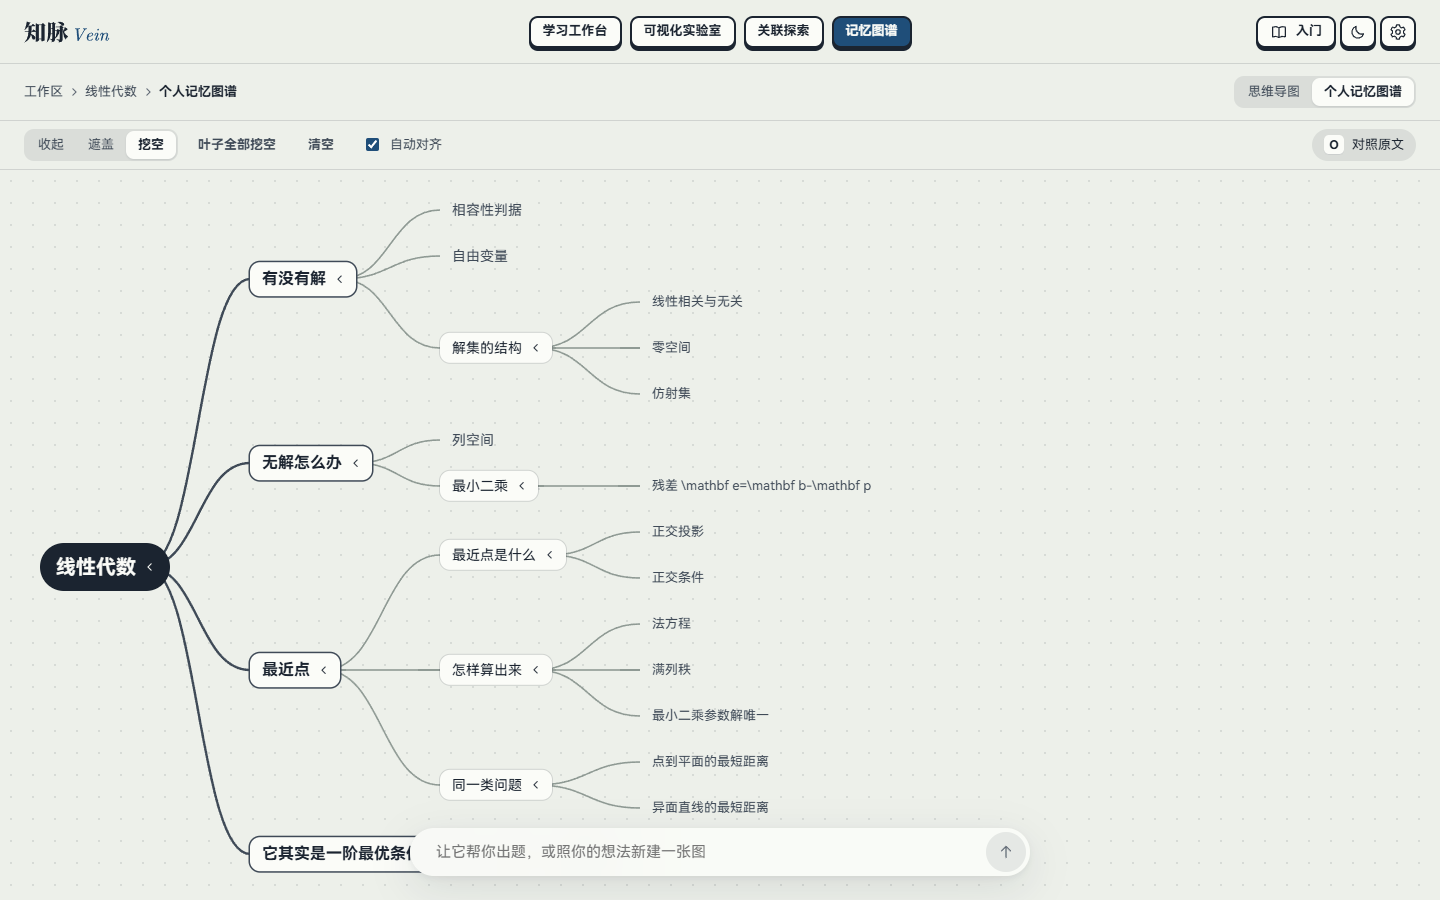
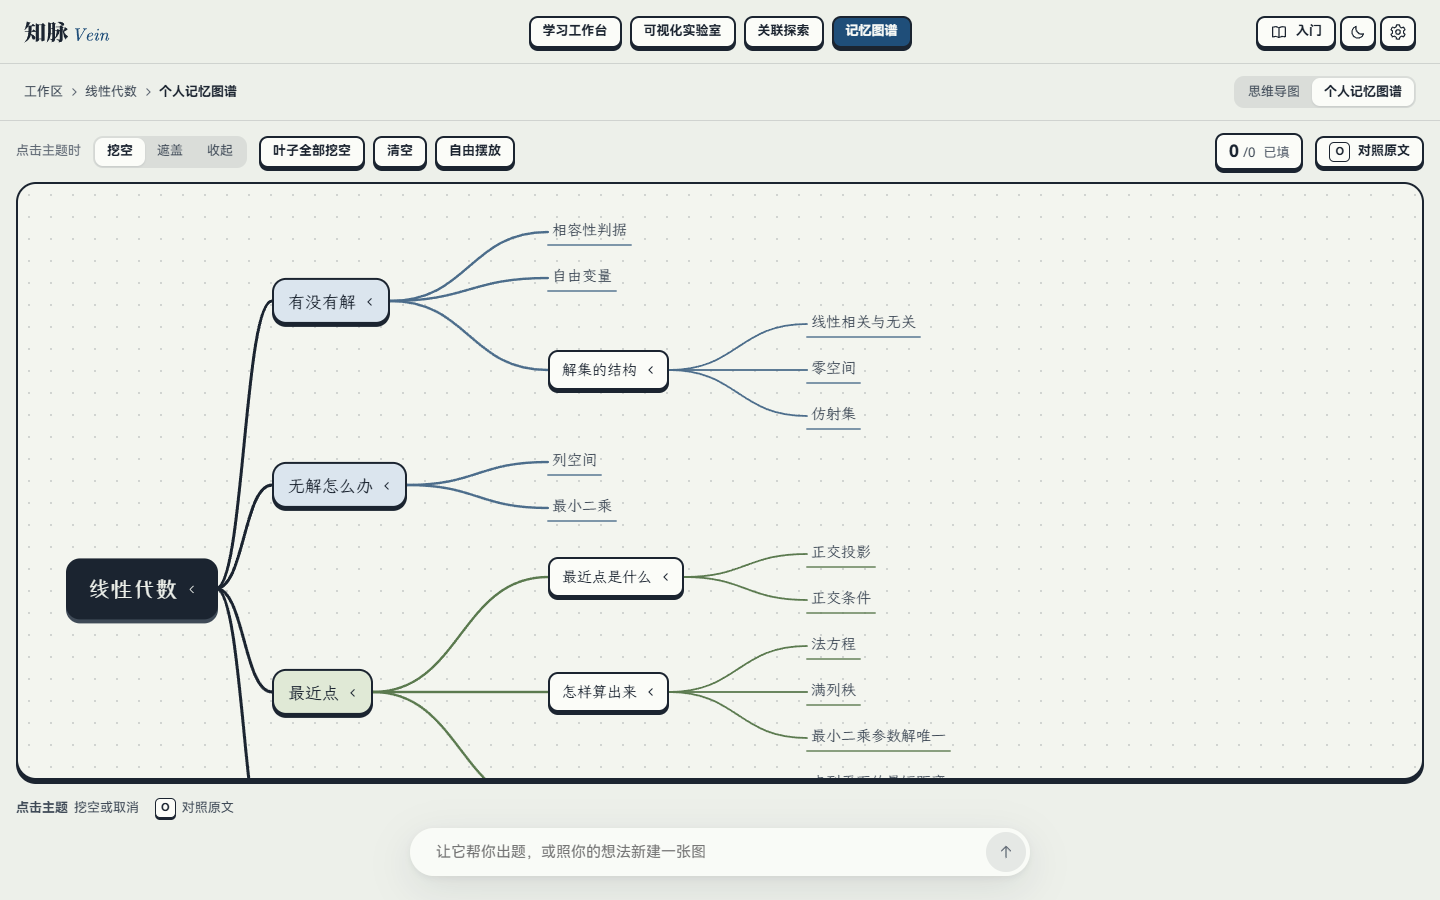
docs: 代提交 #31 记忆图谱 UI 的文档与证据三张，接龙 #32 记录草稿刷新
DESIGN §12 记忆图谱行、开发日志补充二、#31 卡与三张截图（重拍 memory-from-mindmap
+ blanks + reveal）；#32 更正 #31 为已提交、交付草稿改用 action d9a7ff42。

diff --git a/docs/HANDOFF.md b/docs/HANDOFF.md
@@ -111,7 +111,7 @@ Runtime: 本地 Qoder Desktop        # 或 非本地 / CI
 
 | 项 | 值 |
 | --- | --- |
-| 最新接龙条目 | §4.5 #30（QoderWang1，2026-11-19，部署草稿就绪，待用户公开点击） |
+| 最新接龙条目 | §4.5 #32（QoderWang1，2026-11-19，代提交 #31 + 草稿刷新；已 push，待用户公开点击） |
 | 分支 | `task/R5b-mindmap-QoderWang1`（**已 push**，三笔：代码 / 文档 / 证据，另合并 `origin/main` 的 README 版权行；HEAD 现取 `git log --oneline origin/task/R5b-mindmap-QoderWang1 -1`。起点 `c5e449d` 是 R0-R1 分支头，**尚未进 `main`**；PR 与合并由用户定）。上一条：`task/R0-R1-QoderWang1`（**已 push**，四笔：产物 / 文档 / 代码 / 示例更名。起点 `4817f13` 已经 PR #7 进 `main`） |
 | 合并状态 | PR #1–#6 已进 `main`（T0-0 / T0-2 / T1-1 / T0-1 全部在内）。`task/T0-2-QoderWang1` 上未合并的 5 个文档提交已由 #18 并入，**该分支不必再开 PR**；某条分支差多少用 `git log --oneline origin/main..<branch>` 现取，别在文档里写条数 |
 | 下一位的入口 | 用户看过 #22 的界面后给方向反馈（⑩）。之后按 `IMPLEMENTATION_PLAN.md` §5：R1b 阅读器（= T1-2）、R2 存储、R3 AI 接入；三个板块已有骨架，接真实能力时只替换示例数据与占位窗口，样式只引用 `DESIGN.md` 的变量 |
@@ -262,8 +262,10 @@ CI 改写未经远端验证。
 | 28 | 2026-11-19 | QoderWang1 | **#27 的补充**：记忆图谱渲染公式、挖空比对改用 `answerKey`；导图首屏最小 70% 可读字号；本地预览改监听 `127.0.0.1`（原只监听 `[::1]`，用户用 `127.0.0.1` 打不开）。四道门：verify:content ✓ / typecheck ✓ / 85 passed / build ✓ | 进行中（同分支，未提交） | 用户要用 Qoder 部署公网：须先提交本分支并合并（或从本分支发布），见 §3 红线 | `DEVELOPMENT_LOG.md`「2026-11-19 · 思维导图回炉（R5b）」的「补充」 |
 | 29 | 2026-11-19 | QoderWang1 | **提交并推送 #27–#28（用户指派：「确认远端是否有更新……本地推送更新」）**：先 fetch 核实 `origin/main` 新增三提交，与基线的内容差异只有 README 版权行（`82cf0f6`）；提交前四道门复跑全过（85 passed），密钥扫描无命中。分三笔——① 代码 `c5f0c97` ② docs/prompts `c288c84` ③ 证据截图七张 `87f4535`；再合并 `origin/main`（`d6f7c52`），push 到 `origin/task/R5b-mindmap-QoderWang1`。`workspace/` 未入库（`.gitignore:32` 排除，逐个路径 add，未用 `git add .`）。**更正 #27/#28 的「未提交」状态**：均已提交并 push | 已提交并 push；PR 与合并由用户定 | ⑪ 的提交前提已完成（本分支）；发布由参赛者本人在 Qoder 里操作，路线见 `IMPLEMENTATION_PLAN.md` §5.5 | 本条即记录（纯提交操作，无新增日志） |
 | 30 | 2026-11-19 | QoderWang1 | **部署准备（用户问「是不是可以部署到公网，按赛事网址」）**：查证 Qoder Sites 从**本地 `apps/web/dist`** 打包（描述符 host-local、已 gitignore），**不从 `main` 构建** → 提交后即可部署，技术上无需先合并 main（合并只是治理步骤，PR 由用户定）。核对产物：无 source map；demo 为公开 linear-algebra，其中 MIT OCW PDF 系 CC BY-NC-SA 公开资源（`resources/manifest.json` 有来源声明），**非私人力学材料**；`probe/large.txt`+`build-info.json` 为 T0-0 残留（无害、待清理）。`prepare_site` 复用个人版公开站点（projectId `01a1ce04-6ca0-7221-9e4a-22dfca5a7d65`，slug `vein-probe-personal`），新 action `cb3b9515-1fc3-40c9-af3c-b6687974de54`，`spa=true`、`databaseAccess=none`；草稿就绪 `canPublish=true`、`published=false`、无阻塞。已开 `show_publish_confirmation` 工作台，**公开点击留给参赛者本人**（§3 红线 / ⑪）。公网地址 `https://vein-probe-personal-dx7phlm8g8e.qoder.zone`（赛事格式 `.qoder.zone`，当前仍服务旧 T0-0 探针，发布后替换为完整应用） | 草稿就绪，**待用户在 Qoder 工作台点 Publish 设为公开**（agent 不执行 `publish_site`） | 用户公开点击后按 §5.5 第 5 步匿名实测深链 `/workspace`、`/atlas?ws=linear-algebra&map=memory`、`/guide`，把地址+commit+实测登记 ADR-0002 与本表；清理 `probe/` 残留 | 本条即记录 |
+| 31 | 2026-11-19 | QoderWang1 | **记忆图谱 UI 与思维导图统一（用户：「顺手改一下记忆图谱的 UI」）**：键帽工具条、点阵画板、牌式节点（分区色）、计分牌、朱笔批改，答案写对知识库别名也算对；`atlas.css` 旧 `.mm-*` 整块替换。四道门：verify:content ✓ / typecheck ✓ / 85 passed / build ✓。**注意部署**：#30 说明 Sites 从本地 `apps/web/dist` 打包，而本轮为截图已重新 `build`，当前 `dist` **含本条未提交的改动**；发布前先提交本条，或接受「线上比 git 新一步」 | 进行中（同分支，**未提交**：`MemoryMap.tsx`、`atlas.css`、`DESIGN.md`、`DEVELOPMENT_LOG.md`、本文件、证据截图三张） | 用户定：本条先提交再发布，还是直接发布 | `DEVELOPMENT_LOG.md`「2026-11-19 · 思维导图回炉（R5b）」的「补充二」 |
+| 32 | 2026-11-19 | QoderWang1 | **代提交 #31 + 部署草稿刷新（用户指派「推送更新……部署这个」，即回应 #31「先提交再发布」之问）**：#31 的代码（`MemoryMap.tsx`/`atlas.css`）已先提交 `8db03f9`；本笔代提交其余在制品——`DESIGN.md` §12 记忆图谱行、`DEVELOPMENT_LOG.md` 补充二、#31 卡、证据三张（`r5b-memory-from-mindmap.png` 重拍 + `r5b-memory-blanks.png` + `r5b-memory-reveal.png`），逐个路径 add。四道门对含全部改动的工作区复跑全过（85 passed）。用新构建（入口 `index-B3o431L4.js`）重新 `prepare_site`，**新 action `d9a7ff42-4cf8-4d0f-a515-98dbff0c8e81` 取代 #30 的 `cb3b9515`**（旧草稿缺记忆图谱重做）；`canPublish=true`、`published=false`、无阻塞，已开工作台。**更正 #31：代码与文档/截图均已提交并 push；交付草稿以本条 action 为准**。另撤去本日早先一条冗余「代提交」日志（与补充二重复、且「未新增证据图」已失实），保留补充二为权威记录 | 已提交并 push；草稿就绪，**待用户公开点击**（agent 不执行 `publish_site`） | 用户公开点击后按 §5.5 第 5 步匿名实测深链并登记 ADR-0002 与本表；清理 `probe/` 残留；公开点击由参赛者本人（§3 / ⑪） | `DEVELOPMENT_LOG.md` 补充二 + 证据三张 |
 
-**下一位从这里接第 31 条。** **新行紧贴上一行写，中间不留空行**——空行会把表格截断，Obsidian 与 GitHub 都会把后面的行渲染成乱码。只加行；要更正前人的条目，就在自己条目里写"更正 #N：……"。
+**下一位从这里接第 33 条。** **新行紧贴上一行写，中间不留空行**——空行会把表格截断，Obsidian 与 GitHub 都会把后面的行渲染成乱码。只加行；要更正前人的条目，就在自己条目里写"更正 #N：……"。
 
 ---
 

diff --git a/docs/DEVELOPMENT_LOG.md b/docs/DEVELOPMENT_LOG.md
@@ -28,6 +28,7 @@
 - **未验证**：拖拽换父、粘贴缩进文本、导入 JSON、中文输入法下直接打字编辑只在纯函数测试或样张里验过，站内未手测；触屏未测。
 - **已知缺陷**：记忆图谱里含公式的主题只去掉了 `$`，LaTeX 命令原样显示（挖空比对按纯文本，改显示要连带改比对）；节点阅读字体是子集，未覆盖的字回退系统字体；整图放进窗口时字偏小（示例导图纵向 24 个主题），可用「展开到第 2 层」。
 - **补充（同日，用户追问「4 问题能解决吗」）**：记忆图谱改为保留 `$…$` 并渲染公式，挖空比对改用 `answerKey`（忽略 `$`、排版命令、空白与全角符号，新增 1 个测试，共 85 passed）；导图首屏若整图缩放低于 70%，改为 70% 并把中心主题放在左侧（「适应窗口」仍显示全图）。用户反映本地打不开：预览服务只监听 `[::1]`，`127.0.0.1:4173` 连不上（`localhost` 可以）；已改为 `vite preview --host 127.0.0.1 --port 4173` 在独立窗口运行，两种地址均返回 200。5173 的开发服务器有同样问题，未动。
+- **补充二（同日，用户：「顺手改一下记忆图谱的 UI」）**：`MemoryMap.tsx` 改为与思维导图同一语言——键帽工具条、粗墨边点阵画板、牌式节点（第一层用导图的分区色）、叶子下划线、按真实宽度排列；挖空为蓝色虚线框，按 O 对照时答对标「对」、答错用朱笔划掉自己写的答案；新增计分牌（已填 / 挖空、对几处）与底部提示。答案写对知识库登记的别名也算对（如「自由参数」之于「自由变量」）。`atlas.css` 旧的 `.mm-*` 样式整块替换（含已无引用的 `.mm-tools`、`.mm-cross`）。四道门：verify:content ✓ / typecheck ✓ / 85 passed / build ✓；截图 `docs/evidence/r5b-memory-blanks.png`、`r5b-memory-reveal.png`。
 - **下一步**：用户手测拖拽、粘贴与输入法；R2 接入后把导图存进工作区 `maps/*.json`；`atlas.mindmap` 接入 BYOK 生成时按 `prompts/MINDMAP.md` §6 自检。
 
 ---

diff --git a/docs/DESIGN.md b/docs/DESIGN.md
@@ -164,3 +164,4 @@
   我的连线用朱色双线，标签前写「我的」。默认只在选中主题时显示，避免满屏交叉。
 - **底栏随状态换提示**：选中、编辑、画连线时显示不同的按键。快捷键表（F1）里放导入导出。
 - **字体**：节点用阅读字体（霞鹜文楷子集，未覆盖的字回退到系统字体），公式用 KaTeX，界面用系统字体。
+- **个人记忆图谱**与思维导图同一语言：键帽工具条、点阵画板、牌式节点与分区色。挖空是蓝色虚线框；对照原文时答对标蓝色「对」，答错用朱笔划掉自己写的答案（「朱批」）。右上角计分牌只数事实：已填、挖空、答对几处。
